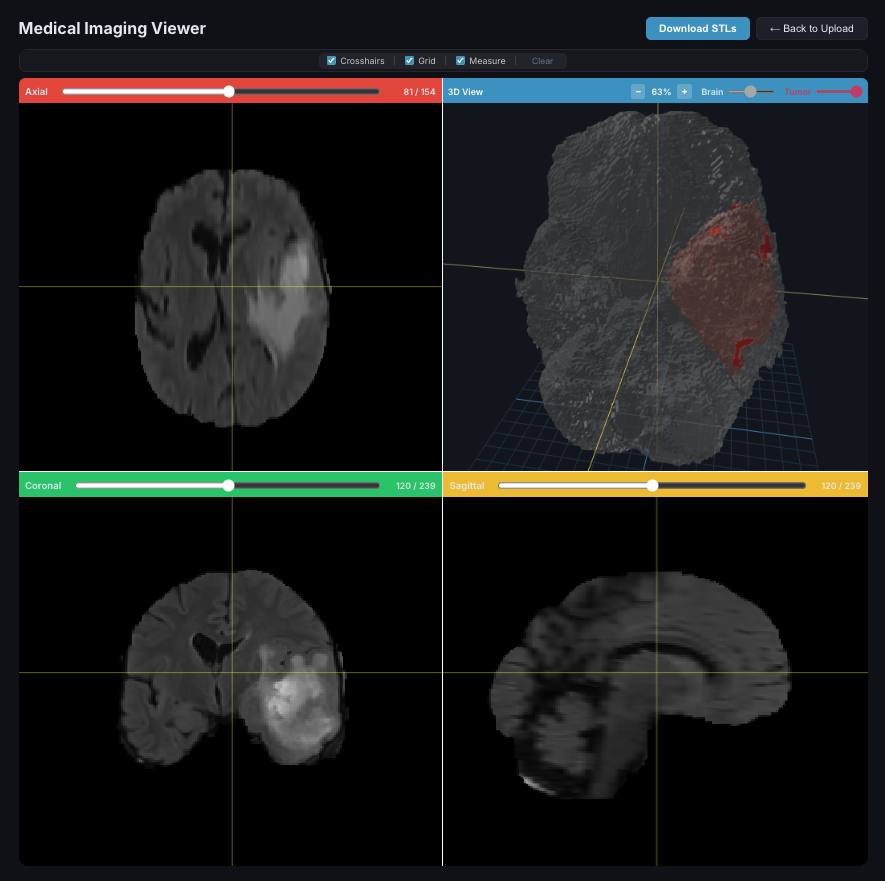
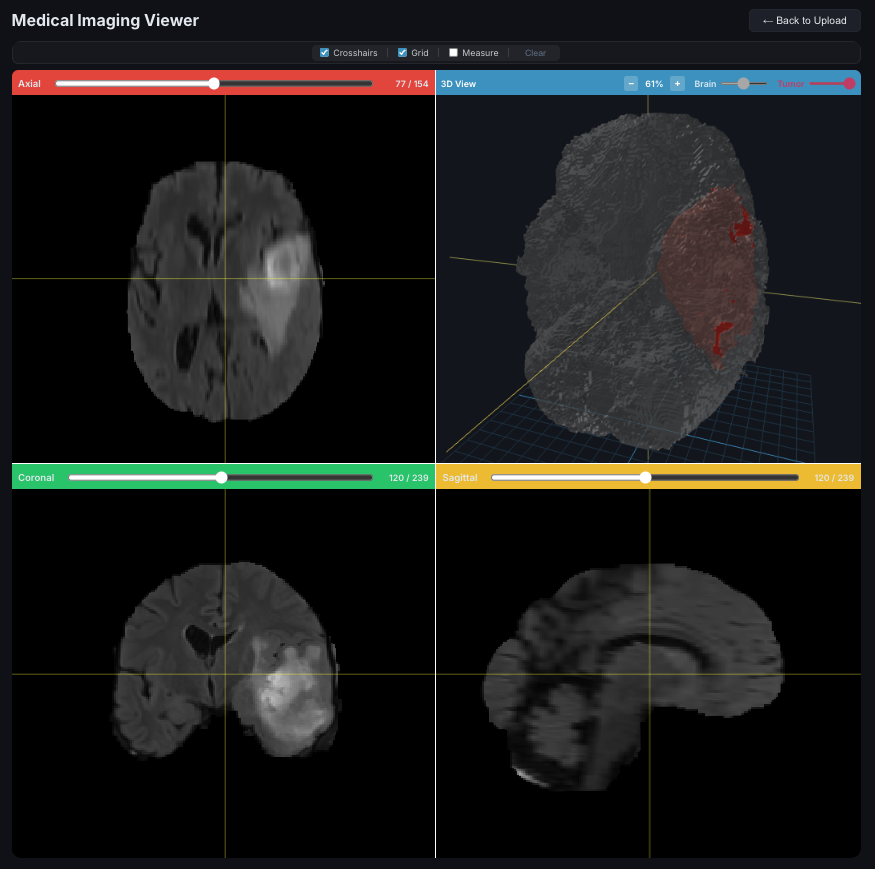
Fix

diff --git a/frontend/src/components/QuadView.tsx b/frontend/src/components/QuadView.tsx
@@ -30,6 +30,9 @@ function QuadCell({ position, children }: QuadCellProps) {
     borderStyles.borderBottom = DIVIDER;
   } else if (position === 'bottomLeft') {
     borderStyles.borderRight = DIVIDER;
+    borderStyles.borderBottomLeftRadius = '8px';
+  } else if (position === 'bottomRight') {
+    borderStyles.borderBottomRightRadius = '8px';
   }
 
   return <div style={borderStyles}>{children}</div>;

diff --git a/README.md b/README.md
@@ -316,16 +316,6 @@ cd frontend
 npm run build
 ```
 
-### Building for Production
-
-```bash
-# Frontend
-cd frontend && npm run build     # Output in dist/
-
-# Backend
-cd orchestration && npm run build  # Output in dist/
-```
-
 ---
 
 ## Limitations
